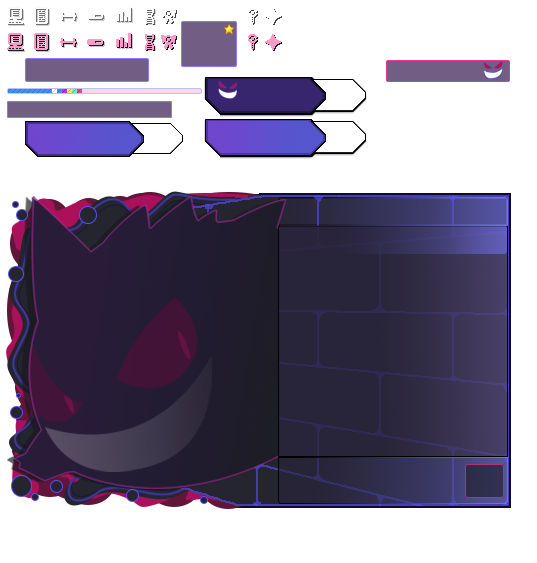
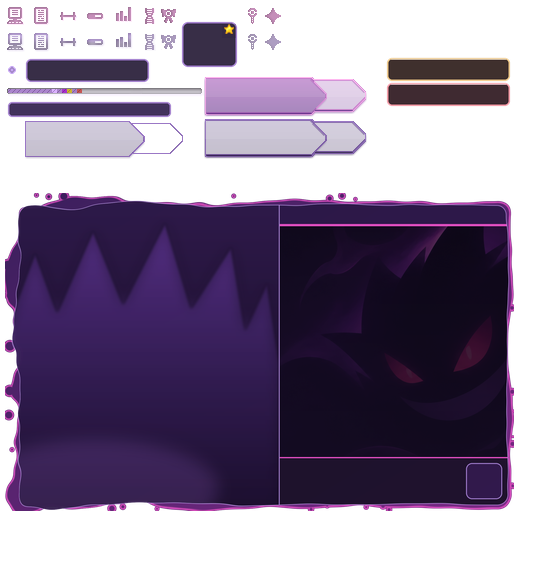
style: Rediseña la ficha de Pokémon

diff --git a/herramientas/monster_info.py b/herramientas/monster_info.py
@@ -1,0 +1,203 @@
+import sys
+import numpy as np
+from PIL import Image, ImageDraw, ImageFilter, ImageEnhance
+
+base_path, mist_path, dst = sys.argv[1], sys.argv[2], sys.argv[3]
+S = 4
+X0, Y0, W, H = 5, 193, 509, 318
+
+
+def hx(h, a=255):
+    h = h.lstrip("#")
+    return (int(h[0:2], 16), int(h[2:4], 16), int(h[4:6], 16), a)
+
+
+def vgrad(w, h, c1, c2):
+    g = Image.new("RGBA", (w, h))
+    d = ImageDraw.Draw(g)
+    for y in range(h):
+        t = y / max(1, h - 1)
+        d.line([(0, y), (w, y)], fill=tuple(int(c1[k] + (c2[k] - c1[k]) * t) for k in range(4)))
+    return g
+
+
+
+import colorsys
+
+
+def recolor_px(img, box, fn):
+    px = img.load()
+    x0, y0, w, h = box
+    for y in range(y0, y0 + h):
+        for x in range(x0, x0 + w):
+            r, g, b, a = px[x, y]
+            if a == 0:
+                continue
+            px[x, y] = fn(r, g, b, a)
+
+
+def lum_tint(col):
+    def f(r, g, b, a):
+        l = (0.3 * r + 0.59 * g + 0.11 * b) / 255
+        k = min(1.0, 0.55 + l * 1.6)
+        return (int(col[0] * k), int(col[1] * k), int(col[2] * k), a)
+    return f
+
+
+def purple_general(r, g, b, a):
+    h, s_, v = colorsys.rgb_to_hsv(r / 255, g / 255, b / 255)
+    if s_ < 0.18 or 180 <= h * 360 <= 235 or 80 <= h * 360 <= 160:
+        nr, ng, nb = colorsys.hsv_to_rgb(272 / 360, 0.30 + 0.25 * (1 - v), v)
+        return (int(nr * 255), int(ng * 255), int(nb * 255), a)
+    return (r, g, b, a)
+
+
+def shape_fill(img, box, top, bot, edge):
+    x0, y0, w, h = box
+    reg = img.crop((x0, y0, x0 + w, y0 + h))
+    alpha = reg.getchannel("A")
+    g = vgrad(w, h, top, bot)
+    g.putalpha(alpha)
+    er = alpha.filter(ImageFilter.MinFilter(3))
+    edge_mask = Image.eval(Image.merge("L", [alpha]).point(lambda v: v), lambda v: v)
+    edge_layer = Image.new("RGBA", (w, h), edge)
+    out = g.copy()
+    rim = Image.fromarray((np.array(alpha, np.int16) - np.array(er, np.int16)).clip(0, 255).astype(np.uint8))
+    out.paste(edge_layer, (0, 0), rim)
+    hl = Image.new("RGBA", (w, h), (255, 255, 255, 0))
+    ImageDraw.Draw(hl).rectangle([0, 0, w, h // 2], fill=(255, 255, 255, 22))
+    hl.putalpha(Image.fromarray(np.minimum(np.array(hl.getchannel("A")), np.array(er)).astype(np.uint8)))
+    out.alpha_composite(hl)
+    img.paste(Image.new("RGBA", (w, h), (0, 0, 0, 0)), (x0, y0))
+    img.alpha_composite(out, (x0, y0))
+
+
+def pill(img, box, fill, border, radius=5, glow=None):
+    x0, y0, w, h = box
+    big = Image.new("RGBA", (w * S, h * S), (0, 0, 0, 0))
+    d = ImageDraw.Draw(big)
+    d.rounded_rectangle([S, S, w * S - S - 1, h * S - S - 1], radius=radius * S, fill=fill, outline=border, width=S + S // 2)
+    if glow:
+        d.line([(radius * S, 2 * S), (w * S - radius * S, 2 * S)], fill=glow, width=S)
+    img.paste(Image.new("RGBA", (w, h), (0, 0, 0, 0)), (x0, y0))
+    img.alpha_composite(big.resize((w, h), Image.LANCZOS), (x0, y0))
+
+
+def style_small(img):
+    recolor_px(img, (0, 0, img.width, 190), purple_general)
+    for x in (5, 31, 56, 85, 112, 138, 158, 243, 263):
+        recolor_px(img, (x, 6, 20, 20), lum_tint((255, 184, 240)))
+        recolor_px(img, (x, 32, 20, 20), lum_tint((155, 120, 198)))
+    recolor_px(img, (5, 58, 18, 24), lum_tint((201, 168, 245)))
+    pill(img, (25, 58, 125, 25), hx("#1E1230", 225), hx("#9B78C6"), 5)
+    pill(img, (7, 101, 165, 17), hx("#2A1846", 225), hx("#9B78C6"), 4)
+    star = img.crop((222, 24, 236, 38)).copy()
+    pill(img, (181, 21, 57, 47), hx("#1E1230", 225), hx("#9B78C6"), 6)
+    img.alpha_composite(star, (222, 24))
+    pill(img, (386, 57, 125, 25), hx("#2A1A16", 230), hx("#E6C082"), 5, glow=hx("#E6C082", 120))
+    pill(img, (386, 82, 125, 25), hx("#2A141C", 230), hx("#EC939F"), 5, glow=hx("#EC939F", 110))
+    shape_fill(img, (22, 118, 164, 42), hx("#4A2E78", 235), hx("#2A1846", 235), hx("#9B78C6"))
+    shape_fill(img, (203, 117, 165, 42), hx("#4A2E78", 235), hx("#2A1846", 235), hx("#9B78C6"))
+    shape_fill(img, (203, 75, 165, 42), hx("#9A3FB0", 240), hx("#5E2A86", 240), hx("#FFB8F0"))
+    return img
+
+L = lambda v: int(v * S)
+card = Image.new("RGBA", (L(W), L(H)), (0, 0, 0, 0))
+card.alpha_composite(vgrad(L(274), L(H), hx("#2E1A4A", 245), hx("#140C22", 245)), (0, 0))
+
+spikes = [(0, 300), (0, 120), (30, 40), (52, 100), (88, 18), (118, 92), (160, 10), (186, 96), (226, 34), (240, 118), (262, 70), (274, 150), (274, 300)]
+sil = Image.new("L", card.size, 0)
+ImageDraw.Draw(sil).polygon([(L(x), L(y + 20)) for x, y in spikes], fill=255)
+sil = sil.filter(ImageFilter.GaussianBlur(L(1.5)))
+sg = vgrad(L(W), L(H), (110, 62, 170, 120), (40, 22, 70, 40))
+layer = Image.new("RGBA", card.size, (0, 0, 0, 0))
+layer.paste(sg, (0, 0), sil)
+card.alpha_composite(layer.filter(ImageFilter.GaussianBlur(L(6))))
+card.alpha_composite(layer)
+gl = Image.new("RGBA", card.size, (0, 0, 0, 0))
+ImageDraw.Draw(gl).ellipse([L(-40), L(240), L(220), L(350)], fill=(199, 125, 255, 40))
+card.alpha_composite(gl.filter(ImageFilter.GaussianBlur(L(10))))
+
+mist = Image.open(mist_path).convert("RGBA")
+mw, mh = mist.size
+cw = int(mw * 0.30)
+crop = mist.crop((int(mw * 0.62), int(mh * 0.12), int(mw * 0.62) + cw, int(mh * 0.12) + int(cw * 231 / 234)))
+crop = ImageEnhance.Brightness(crop.resize((L(234), L(231)), Image.LANCZOS)).enhance(0.42)
+card.alpha_composite(crop, (L(274), L(33)))
+card.alpha_composite(vgrad(L(234), L(231), (20, 12, 34, 40), (20, 12, 34, 150)), (L(274), L(33)))
+
+d = ImageDraw.Draw(card)
+d.rectangle([L(274), 0, L(W), L(33)], fill=hx("#2A1846", 235))
+d.rectangle([L(274), L(31), L(W), L(33)], fill=hx("#E04EC0"))
+d.rectangle([L(274), L(264), L(W), L(H)], fill=hx("#1A1128", 240))
+d.rectangle([L(274), L(264), L(W), L(265)], fill=hx("#E04EC0"))
+d.line([(L(274), 0), (L(274), L(H))], fill=hx("#9B78C6"), width=L(1))
+d.rounded_rectangle([L(461), L(270), L(497), L(306)], radius=L(6), fill=hx("#2A1846", 230), outline=hx("#9B78C6"), width=L(1))
+
+yy, xx = np.mgrid[0:L(H), 0:L(W)].astype(np.float32) / S
+
+
+def sdf_box(px, py, x0, y0, x1, y1, r):
+    cx, cy = (x0 + x1) / 2, (y0 + y1) / 2
+    hx_, hy_ = (x1 - x0) / 2 - r, (y1 - y0) / 2 - r
+    qx, qy = np.abs(px - cx) - hx_, np.abs(py - cy) - hy_
+    return np.hypot(np.maximum(qx, 0), np.maximum(qy, 0)) + np.minimum(np.maximum(qx, qy), 0) - r
+
+
+def noise(px, py, seed):
+    rng = np.random.default_rng(seed)
+    n = np.zeros_like(px)
+    for f, a in ((0.04, 2.4), (0.085, 1.4), (0.2, 0.6)):
+        ph = rng.uniform(0, 6.28, 3)
+        n += a * (np.sin(px * f + ph[0]) * np.cos(py * f * 1.3 + ph[1]) + np.sin((px + py) * f * 0.7 + ph[2]))
+    return n
+
+
+heavy = np.clip((280 - xx) / 280, 0, 1)
+d_outer = sdf_box(xx, yy, 8, 8, W - 3, H - 3, 14) - noise(xx, yy, 3) * (0.6 + 1.4 * heavy)
+d_inner = sdf_box(xx, yy, 13, 12, W - 7, H - 7, 10) - noise(xx, yy, 9) * (0.3 + 0.8 * heavy)
+rng = np.random.default_rng(21)
+for _ in range(30):
+    side = rng.integers(4)
+    t = rng.uniform(0.03, 0.97)
+    if side == 2 or (side in (0, 1) and t < 0.55):
+        r = rng.uniform(2.5, 7.5)
+    else:
+        r = rng.uniform(1.5, 4)
+    if side == 0:
+        cx, cy = 8 + t * (W - 12), rng.uniform(1.5, 7)
+    elif side == 1:
+        cx, cy = 8 + t * (W - 12), H - rng.uniform(1.5, 6)
+    elif side == 2:
+        cx, cy = rng.uniform(1.5, 7), 8 + t * (H - 12)
+    else:
+        cx, cy = W - rng.uniform(1, 3), 8 + t * (H - 12)
+    d_outer = np.minimum(d_outer, np.hypot(xx - cx, yy - cy) - r)
+
+ao = np.clip(0.5 - d_outer * S, 0, 1)
+ai = np.clip(0.5 - d_inner * S, 0, 1)
+band = np.zeros((L(H), L(W), 4), np.float32)
+t = np.clip((xx * 0.6 + yy) / (W * 0.6 + H), 0, 1)
+c1, c2 = np.array(hx("#3A1F5C"), np.float32), np.array(hx("#7A2A86"), np.float32)
+for k in range(3):
+    band[..., k] = c1[k] + (c2[k] - c1[k]) * t
+rim = np.clip(1 - np.abs(d_outer + 1.2) / 1.2, 0, 1)
+for k, v in enumerate(hx("#E04EC0")[:3]):
+    band[..., k] = band[..., k] * (1 - rim) + v * rim
+il = np.clip(1 - np.abs(d_inner) / 0.9, 0, 1)
+for k, v in enumerate(hx("#C9A8F5")[:3]):
+    band[..., k] = band[..., k] * (1 - il) + v * il
+band[..., 3] = 255 * ao
+arr = np.array(card, np.float32)
+arr[..., 3] *= ai
+ac = arr[..., 3:4] / 255
+out = band.copy()
+out[..., :3] = arr[..., :3] * ac + band[..., :3] * (1 - ac)
+out[..., 3] = np.maximum(band[..., 3], arr[..., 3])
+frame = Image.fromarray(out.clip(0, 255).astype(np.uint8), "RGBA").resize((W, H), Image.LANCZOS)
+
+img = Image.open(base_path).convert("RGBA")
+img = style_small(img)
+img.paste(Image.new("RGBA", (W + 2, H + 2), (0, 0, 0, 0)), (X0 - 1, Y0 - 1))
+img.alpha_composite(frame, (X0, Y0))
+img.save(dst, optimize=True)
